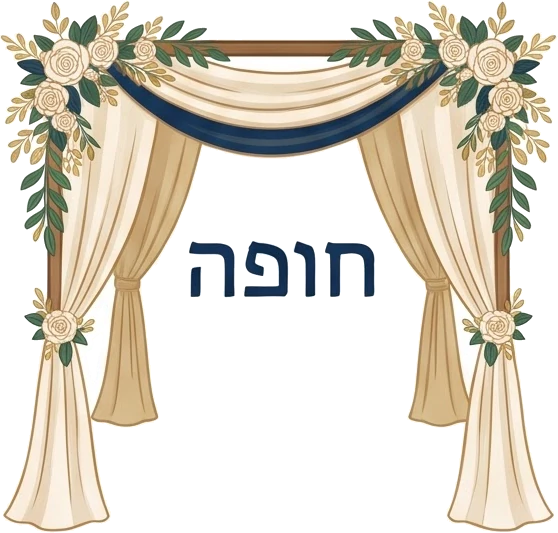
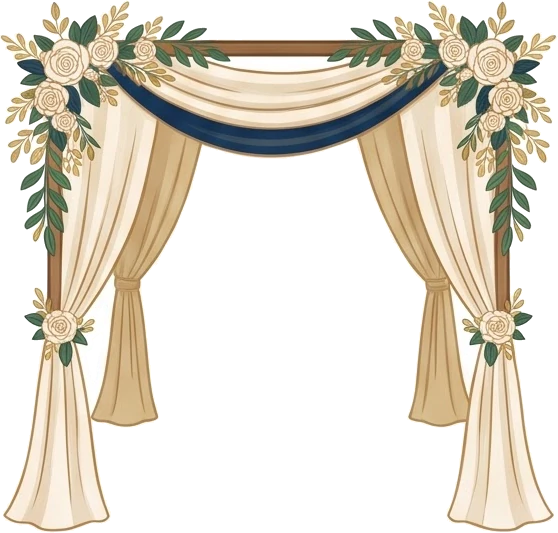
Fix black fullscreen view; clean element library (remove garbled/redundant text)
Claude-Session: https://claude.ai/code/session_0195kGDBrLofMV4QUG1ihFpf

Changed region(s): [[0.3351, 0.4503, 0.6703, 0.5704]]

diff --git a/index.html b/index.html
@@ -226,7 +226,8 @@ h1{font-family:"Frank Ruhl Libre",serif;font-size:30px;line-height:1.2;margin:18
 .modal .acts.col{flex-direction:column}
 .modal .stat{padding:10px 0;font-size:14.5px}
 .fs{position:fixed;inset:0;z-index:75;background:#151210;animation:fade .18s}
-.fs canvas{position:absolute;left:50%;top:calc(50% - 34px);box-shadow:0 10px 40px rgba(0,0,0,.6)}
+.fs .fs-wrap{position:absolute;left:50%;top:calc(50% - 34px);transform:translate(-50%,-50%);box-shadow:0 10px 40px rgba(0,0,0,.6);overflow:hidden;touch-action:none}
+.fs canvas{display:block}
 .fs-bar{position:absolute;inset-inline:0;bottom:0;display:flex;align-items:center;gap:10px;padding:12px 16px calc(12px + var(--safe-b));color:#fff}
 .fs-bar span{flex:1;text-align:center;font-size:14px;opacity:.8;white-space:nowrap}
 .fs-bar button{width:44px;height:44px;border-radius:50%;background:rgba(255,255,255,.12);display:grid;place-items:center;color:#fff}
@@ -2146,9 +2147,13 @@ async function paint(cv, sp, cssW, opt = {}){
     ctx.strokeRect(B, B, off.width - 2*B, off.height - 2*B);
   }
   if (tok !== cv._tok) return;
+  if (opt.rotate){ // סיבוב 90° בתוך הפיקסלים
+    cv.width = off.height; cv.height = off.width; cv.style.width = cssH + 'px'; cv.style.height = cssW + 'px';
+    const c2 = cv.getContext('2d'); c2.setTransform(1, 0, 0, 1, 0, 0); c2.translate(off.height, 0); c2.rotate(Math.PI / 2); c2.drawImage(off, 0, 0); c2.setTransform(1, 0, 0, 1, 0, 0);
+  } else {
   cv.width = off.width; cv.height = off.height;
   cv.style.width = cssW + 'px'; cv.style.height = cssH + 'px';
-  cv.getContext('2d').drawImage(off, 0, 0);
+  cv.getContext('2d').drawImage(off, 0, 0); }
   off.width = off.height = 1;
 }
 
@@ -2322,14 +2327,14 @@ $('paper').onclick = openFS;
 function openFS(){
   if (FS) return;
   const el = document.createElement('div'); el.className = 'fs';
-  el.innerHTML = `<canvas></canvas><div class="fs-bar">
+  el.innerHTML = `<div class="fs-wrap"><canvas></canvas></div><div class="fs-bar">
     <button data-a="x" aria-label="סגירה"><svg viewBox="0 0 24 24" fill="none" stroke="currentColor" stroke-width="2.2"><path d="M6 6l12 12M18 6L6 18"/></svg></button>
     <button data-a="prev" aria-label="הקודמת"><svg viewBox="0 0 24 24" fill="none" stroke="currentColor" stroke-width="2.2"><path d="M9 18l6-6-6-6"/></svg></button>
     <span></span>
     <button data-a="next" aria-label="הבאה"><svg viewBox="0 0 24 24" fill="none" stroke="currentColor" stroke-width="2.2"><path d="M15 18l-6-6 6-6"/></svg></button>
     <button data-a="alt" class="alt">עיצוב אחר</button></div>`;
   document.body.appendChild(el); FS = {el};
-  { const c = el.querySelector('canvas'); pinchZoom(c, () => c); }
+  { const c = el.querySelector('canvas'); pinchZoom(el.querySelector('.fs-wrap'), () => c); }
   history.pushState({fs:1}, '');
   el.onclick = e => {
     const a = e.target.closest('[data-a]'); if (!a) return;
@@ -2342,14 +2347,14 @@ function openFS(){
 }
 function renderFS(){
   if (!FS) return;
-  zoomReset(FS.el.querySelector('canvas'));
+  zoomReset(FS.el.querySelector('.fs-wrap'));
   const G = geo(), ar = G.W / G.H, portrait = innerHeight > innerWidth;
   const availW = portrait ? innerHeight - 100 : innerWidth - 24, availH = portrait ? innerWidth - 20 : innerHeight - 90;
   const cssW = Math.min(availW, availH * ar);
   const cv = FS.el.querySelector('canvas');
-  cv.style.transform = portrait ? 'translate(-50%,-50%) rotate(90deg)' : 'translate(-50%,-50%)';
   FS.el.querySelector('.fs-bar span').textContent = `${PV.cur + 1} / ${PV.plan.spreads.length}`;
-  paint(cv, PV.plan.spreads[PV.cur], cssW, {fold:true, maxDpr:2.5});
+  // בטלפון לאורך: מסובבים את הציור עצמו (לא את הקנבס) – כך ההגדלה בצביטה עובדת בלי לאבד את התמונה
+  paint(cv, PV.plan.spreads[PV.cur], cssW, {fold:true, maxDpr:2.5, rotate:portrait});
 }
 function closeFS(){ if (!FS) return; FS.el.remove(); FS = null; }
 

diff --git a/sw.js b/sw.js
@@ -1,6 +1,6 @@
 /* Service Worker – אלבום חכם · חי אפליקציות
    קודם רשת (כדי שעדכונים יופיעו מיד), ואם אין אינטרנט – מהמטמון. */
-const CACHE = 'hai-album-v15';
+const CACHE = 'hai-album-v16';
 const SHELL = ['./', 'index.html', 'manifest.webmanifest', 'icon-192.png', 'icon-512.png'];
 self.addEventListener('install', e => { e.waitUntil(caches.open(CACHE).then(c => c.addAll(SHELL)).catch(() => {})); self.skipWaiting(); });
 self.addEventListener('activate', e => { e.waitUntil(caches.keys().then(ks => Promise.all(ks.filter(k => k !== CACHE).map(k => caches.delete(k)))).then(() => self.clients.claim())); });
